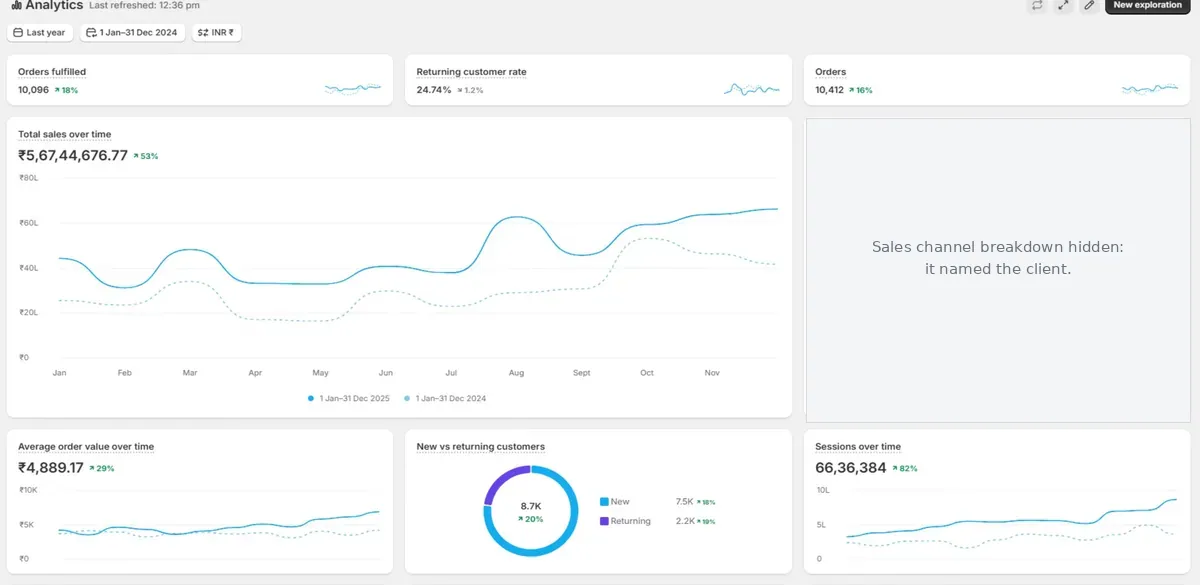
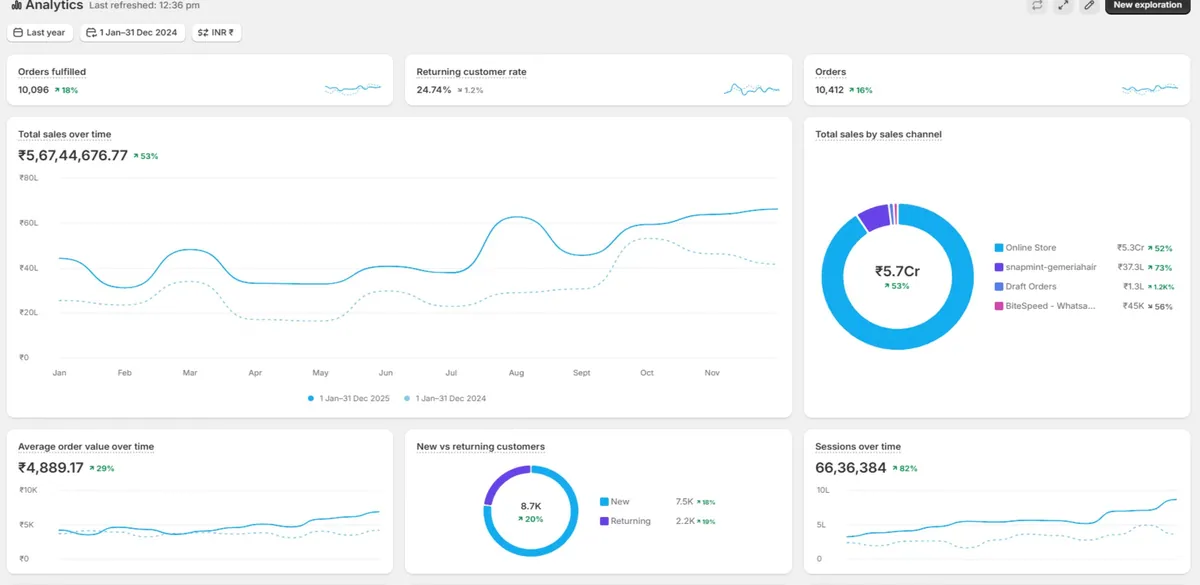
Name Gemeria on their case study
The company confirmed the client is happy to be named, so the case study
is no longer anonymous and the dashboard screenshot is the unaltered one
from the marketing portfolio.

Claude-Session: https://claude.ai/code/session_01TRJKEKrxPUTGtMnmDeBKph

Changed region(s): [[0.6783, 0.3385, 0.9867, 0.6154], [0.6783, 0.2154, 0.8017, 0.2462]]

diff --git a/src/content/case-studies.ts b/src/content/case-studies.ts
@@ -177,13 +177,13 @@ export const caseStudies: CaseStudy[] = [
   {
     slug: "beauty-personal-care-2025",
     vertical: "marketing",
-    title: "Beauty & Personal Care Brand",
-    client: "Beauty and personal care brand",
+    title: "Gemeria: ₹5.67 Cr Revenue at 4.50 ROAS",
+    client: "Gemeria, hair and personal care brand",
     industry: "E Commerce & Retail",
     industrySlug: "ecommerce-retail",
     period: "Jan to Dec 2025",
     channels: ["Meta Ads", "Shopify"],
-    summary: "A full year of Meta Ads and Shopify work for a beauty and personal care brand.",
+    summary: "A full year of Meta Ads and Shopify work for Gemeria, named with the client's permission.",
     metrics: [
       { label: "Revenue generated", value: "₹5,67,44,676" },
       { label: "Purchases", value: "10,412" },
@@ -191,7 +191,7 @@ export const caseStudies: CaseStudy[] = [
       { label: "Average order value", value: "₹4,889" },
     ],
     source: "Marketing portfolio page 4",
-    proof: { src: "/case-studies/beauty-personal-care-2025.webp", width: 1200, height: 585, caption: "Shopify analytics for the store, full year 2025 against 2024 (marketing portfolio, page 4). The sales channel panel is hidden because it named the client." },
+    proof: { src: "/case-studies/beauty-personal-care-2025.webp", width: 1200, height: 585, caption: "Shopify analytics for the store, full year 2025 against 2024 (marketing portfolio, page 4)." },
     services: ["marketing/ecommerce-growth"],
     status: "published",
   },
